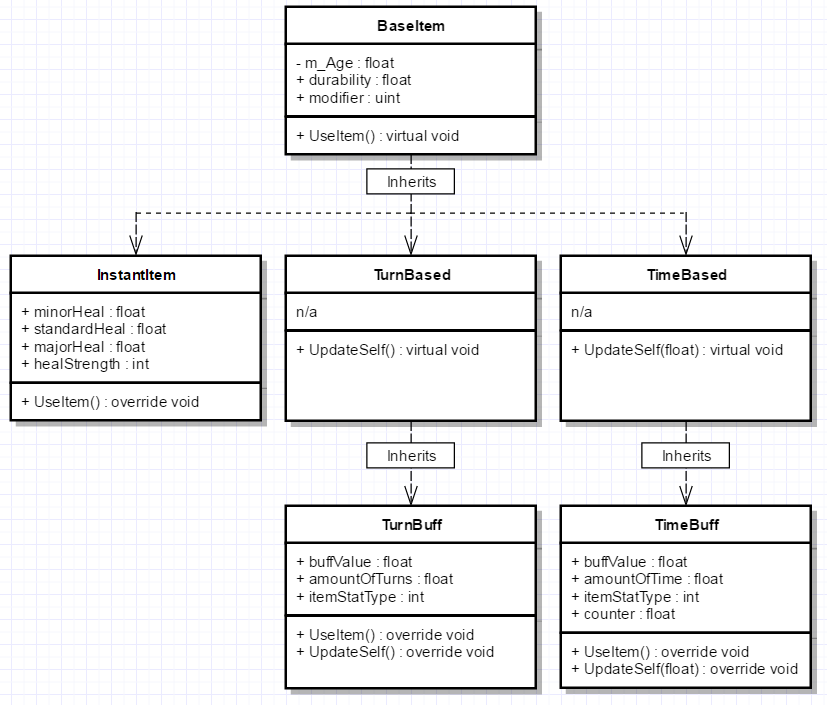
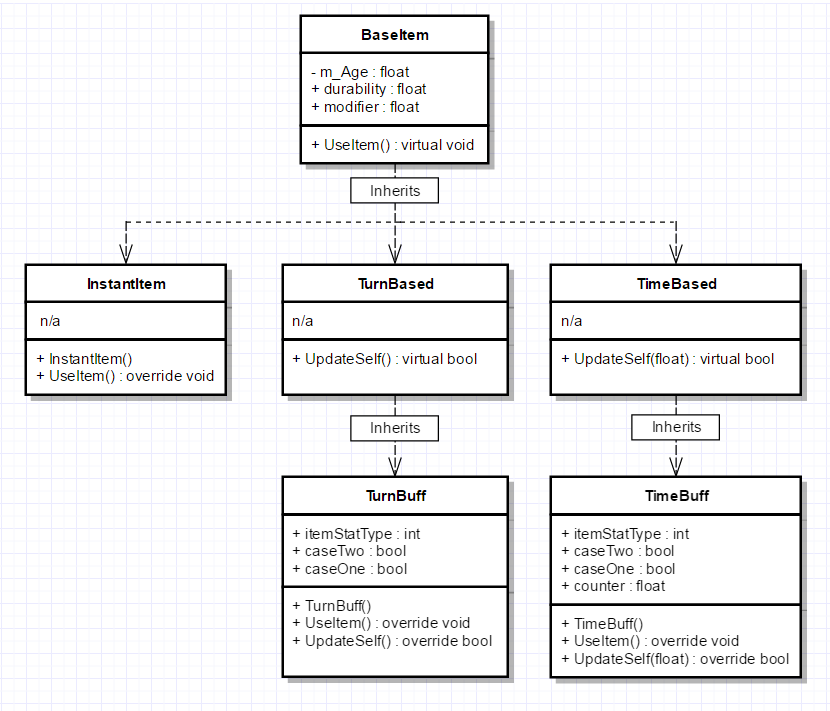
Base Item Script Refactor Commit
made some major edits to the base item script and made edits to the uml
document.

Changed region(s): [[0.0, 0.0, 0.9976, 0.9986]]

diff --git a/Assets/Scripts/BaseItem.cs b/Assets/Scripts/BaseItem.cs
@@ -1,155 +1,132 @@
 /* Script Info - Script Name: BaseItem.cs, Created by: Brock Barlow, This script is used to handle items. */
 
-using UnityEngine;
 using System;
-using System.Collections;
 
 [Serializable]
 public class BaseItem
 {
-    protected float m_Age; //current durabilities max value.
-    
+    protected float m_Age;   //current durabilities max value.
     public float durability; //how long the item will last.
-    public float modifier; //value that will "modify" player attribute(s).
+    public float modifier;   //value that will "modify" player attribute(s).
 
-    public virtual void UseItem() { } //no defines due to overrides.
+    public virtual void UseItem() { } 
 }
 
 [Serializable]
 public class InstantItem : BaseItem 
 {
-    //instant item idea: heal up item. will restore the player's "missing health" value. effect will be instant, no lasting/timed effect.
-    //tiers of item: minor, standard, major.
+    public InstantItem() { modifier = .15f; }
 
-    public float minorHeal = .1f; //10%
-    public float standardHeal = .25f; //25%
-    public float majorHeal = .5f; //50%
-    public int healStrengthType = 3;
- 
     public override void UseItem()
     {
-        switch (healStrengthType)
-        {
-            case 3: //minor heal case.
-                modifier = GameManager.self.playerData.health.coefficient * minorHeal;
-                GameManager.self.playerData.health.modifier += modifier;
-                if (GameManager.self.playerData.health.modifier > 0) { GameManager.self.playerData.health.modifier = 0; }
-                break;
-            case 2: //standard heal case.
-                modifier = GameManager.self.playerData.health.coefficient * standardHeal;
-                GameManager.self.playerData.health.modifier += modifier;
-                if (GameManager.self.playerData.health.modifier > 0) { GameManager.self.playerData.health.modifier = 0; }
-                break;
-            case 1: //major heal case.
-                modifier = GameManager.self.playerData.health.coefficient * majorHeal;
-                GameManager.self.playerData.health.modifier += modifier;
-                if (GameManager.self.playerData.health.modifier > 0) { GameManager.self.playerData.health.modifier = 0; }
-                break;
-            default:
-                break;
-        }
+        var healValue = GameManager.self.playerData.health.value * modifier;
+        GameManager.self.playerData.health.modifier += healValue;
+        if (GameManager.self.playerData.health.modifier > 0) { GameManager.self.playerData.health.modifier = 0; }
+        //TODO. Destroy health item.
     }
 }
 
 [Serializable]
-public class TurnBased : BaseItem //these items are based on the amount of turns the player makes during play.
+public class TurnBased : BaseItem 
 {   
-    public virtual void UpdateSelf() { m_Age++; } //increment age.
+    public virtual bool UpdateSelf() { m_Age++; return true; } 
 }
 
 [Serializable]
-public class TurnBuff : TurnBased
+public class TurnBuff : TurnBased  //TODO. Get feedback here.
 {
-    //turn item idea: attack increase item. will raise the player's attack value.
-    //effect will have a lasting/timed effect (based off turns).
-    //
-    //turn item idea: defense increase item. will raise the player's defense value.
-    //effect will have a lasting/timed effect (based off turns).
-
-    public float buffValue = .1f; //10%
-    public float amountOfTurns = 10; //total turns the player can make before losing buff
     public int itemStatType = 2;
+    public bool caseTwo, caseOne;
+
+    public TurnBuff() { durability = 10; modifier = .1f; } 
 
     public override void UseItem()
     {
         switch (itemStatType)
         {
-            case 2: //this case is for the attack stat buff.
-                durability = amountOfTurns;
-                modifier = GameManager.self.playerData.attack.coefficient * buffValue;
-                GameManager.self.playerData.attack.modifier += modifier;
+            case 2: //attack buff case
+                caseTwo = true;
+                var attackValue = GameManager.self.playerData.attack.value * modifier;
+                GameManager.self.playerData.attack.modifier += attackValue;
                 break;
-            case 1: //this case is for the defense stat buff.
-                durability = amountOfTurns;
-                modifier = GameManager.self.playerData.defense.coefficient * buffValue;
-                GameManager.self.playerData.defense.coefficient += modifier;
+            case 1: //defense buff case
+                caseOne = true;
+                var defenseValue = GameManager.self.playerData.defense.value * modifier;
+                GameManager.self.playerData.defense.modifier += defenseValue;
                 break;
             default:
                 break;
         }
     }
 
-    public override void UpdateSelf()
+    public override bool UpdateSelf()
     {
         base.UpdateSelf();
-        if (m_Age > durability) //Get rid of modified value and destroy item.
+        if (m_Age > durability & caseTwo == true) 
         {
             GameManager.self.playerData.attack.modifier -= modifier;
+            //TODO. Destroy health item.
+            return false;
         }
+        if (m_Age > durability & caseOne == true)
+        {
+            GameManager.self.playerData.defense.modifier -= modifier;
+            //TODO. Destroy health item.
+            return false;
+        }
+        return true;
     }
 }
 
 [Serializable]
-public class TimeBased : BaseItem //these items are based on a timer when activated by the player during play.
+public class TimeBased : BaseItem 
 {
-    public virtual void UpdateSelf(float value) { m_Age += value; } //modify age with float value.
+    public virtual bool UpdateSelf(float value) { m_Age += value; return true; } 
 }
 
 [Serializable]
-public class TimeBuff : TimeBased
+public class TimeBuff : TimeBased  //TODO. Get feedback here.
 {
-    //time item idea: attack increase item. will raise the player's attack value.
-    //effect will have a lasting/timed effect (based off time).
-    //
-    //time item idea: defense increase item. will raise the player's defense value.
-    //effect will have a lasting/timed effect (based off time).
-
-    public float buffValue = .15f; //15%
-    public float amountOfTime = 10; //how much time the player has before losing buff
     public int itemStatType = 2;
-    public float counter = 10; //used as timer for buff item
+    public bool caseTwo, caseOne;
+    public float counter = 10; 
+
+    public TimeBuff() { durability = 10; modifier = .1f; }
 
     public override void UseItem()
     {
         switch (itemStatType)
         {
-            case 2: //this case is for the attack stat buff.
-                durability = amountOfTime;
-                modifier = GameManager.self.playerData.attack.coefficient * buffValue;
-                GameManager.self.playerData.attack.modifier += modifier;
-                counter -= Time.deltaTime;
+            case 2: //attack buff case
+                caseTwo = true;
+                var attackValue = GameManager.self.playerData.attack.value * modifier;
+                GameManager.self.playerData.attack.modifier += attackValue;
                 break;
-            case 1: //this case is for the defense stat buff.
-                durability = amountOfTime;
-                modifier = GameManager.self.playerData.defense.coefficient * buffValue;
-                GameManager.self.playerData.defense.coefficient += modifier;
-                counter -= Time.deltaTime;
+            case 1: //defense buff case
+                caseOne = true;
+                var defenseValue = GameManager.self.playerData.defense.value * modifier;
+                GameManager.self.playerData.defense.modifier += defenseValue;
                 break;
             default:
                 break;
         }
     }
 
-    public override void UpdateSelf(float counter)
+    public override bool UpdateSelf(float counter)
     {
         base.UpdateSelf(counter);
-        if (m_Age > durability) //Get rid of modified value and destroy item.
+        if (m_Age > durability & caseTwo == true)
         {
             GameManager.self.playerData.attack.modifier -= modifier;
+            //TODO. Destroy health item.
+            return false;
         }
-        if (counter < durability) //reset timer/counter
+        if (m_Age > durability & caseOne == true)
         {
-            counter = 10;
+            GameManager.self.playerData.defense.modifier -= modifier;
+            //TODO. Destroy health item.
+            return false;
         }
+        return true;
     }
 }
